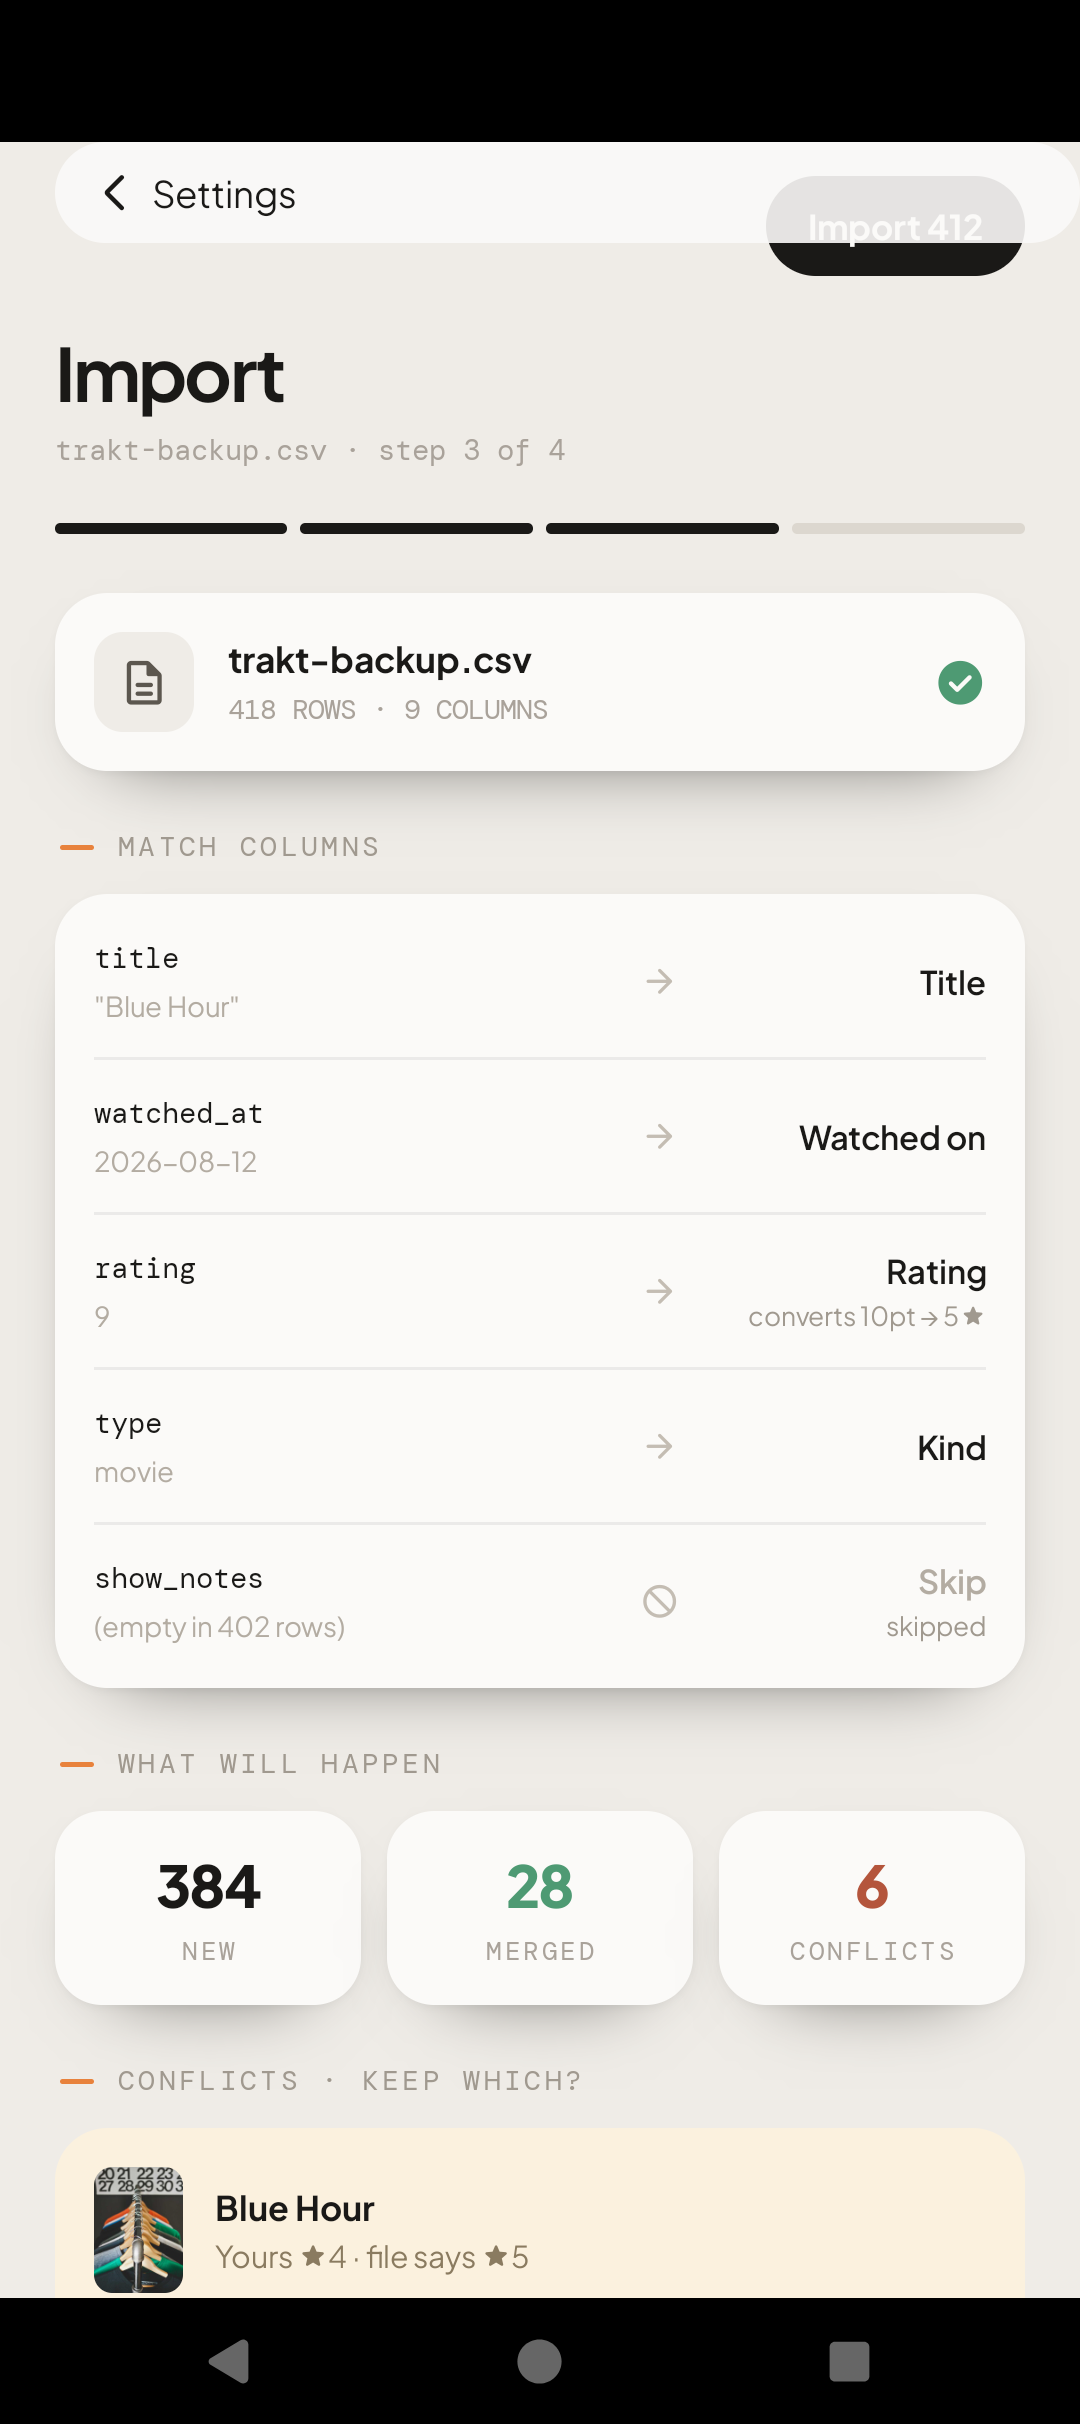
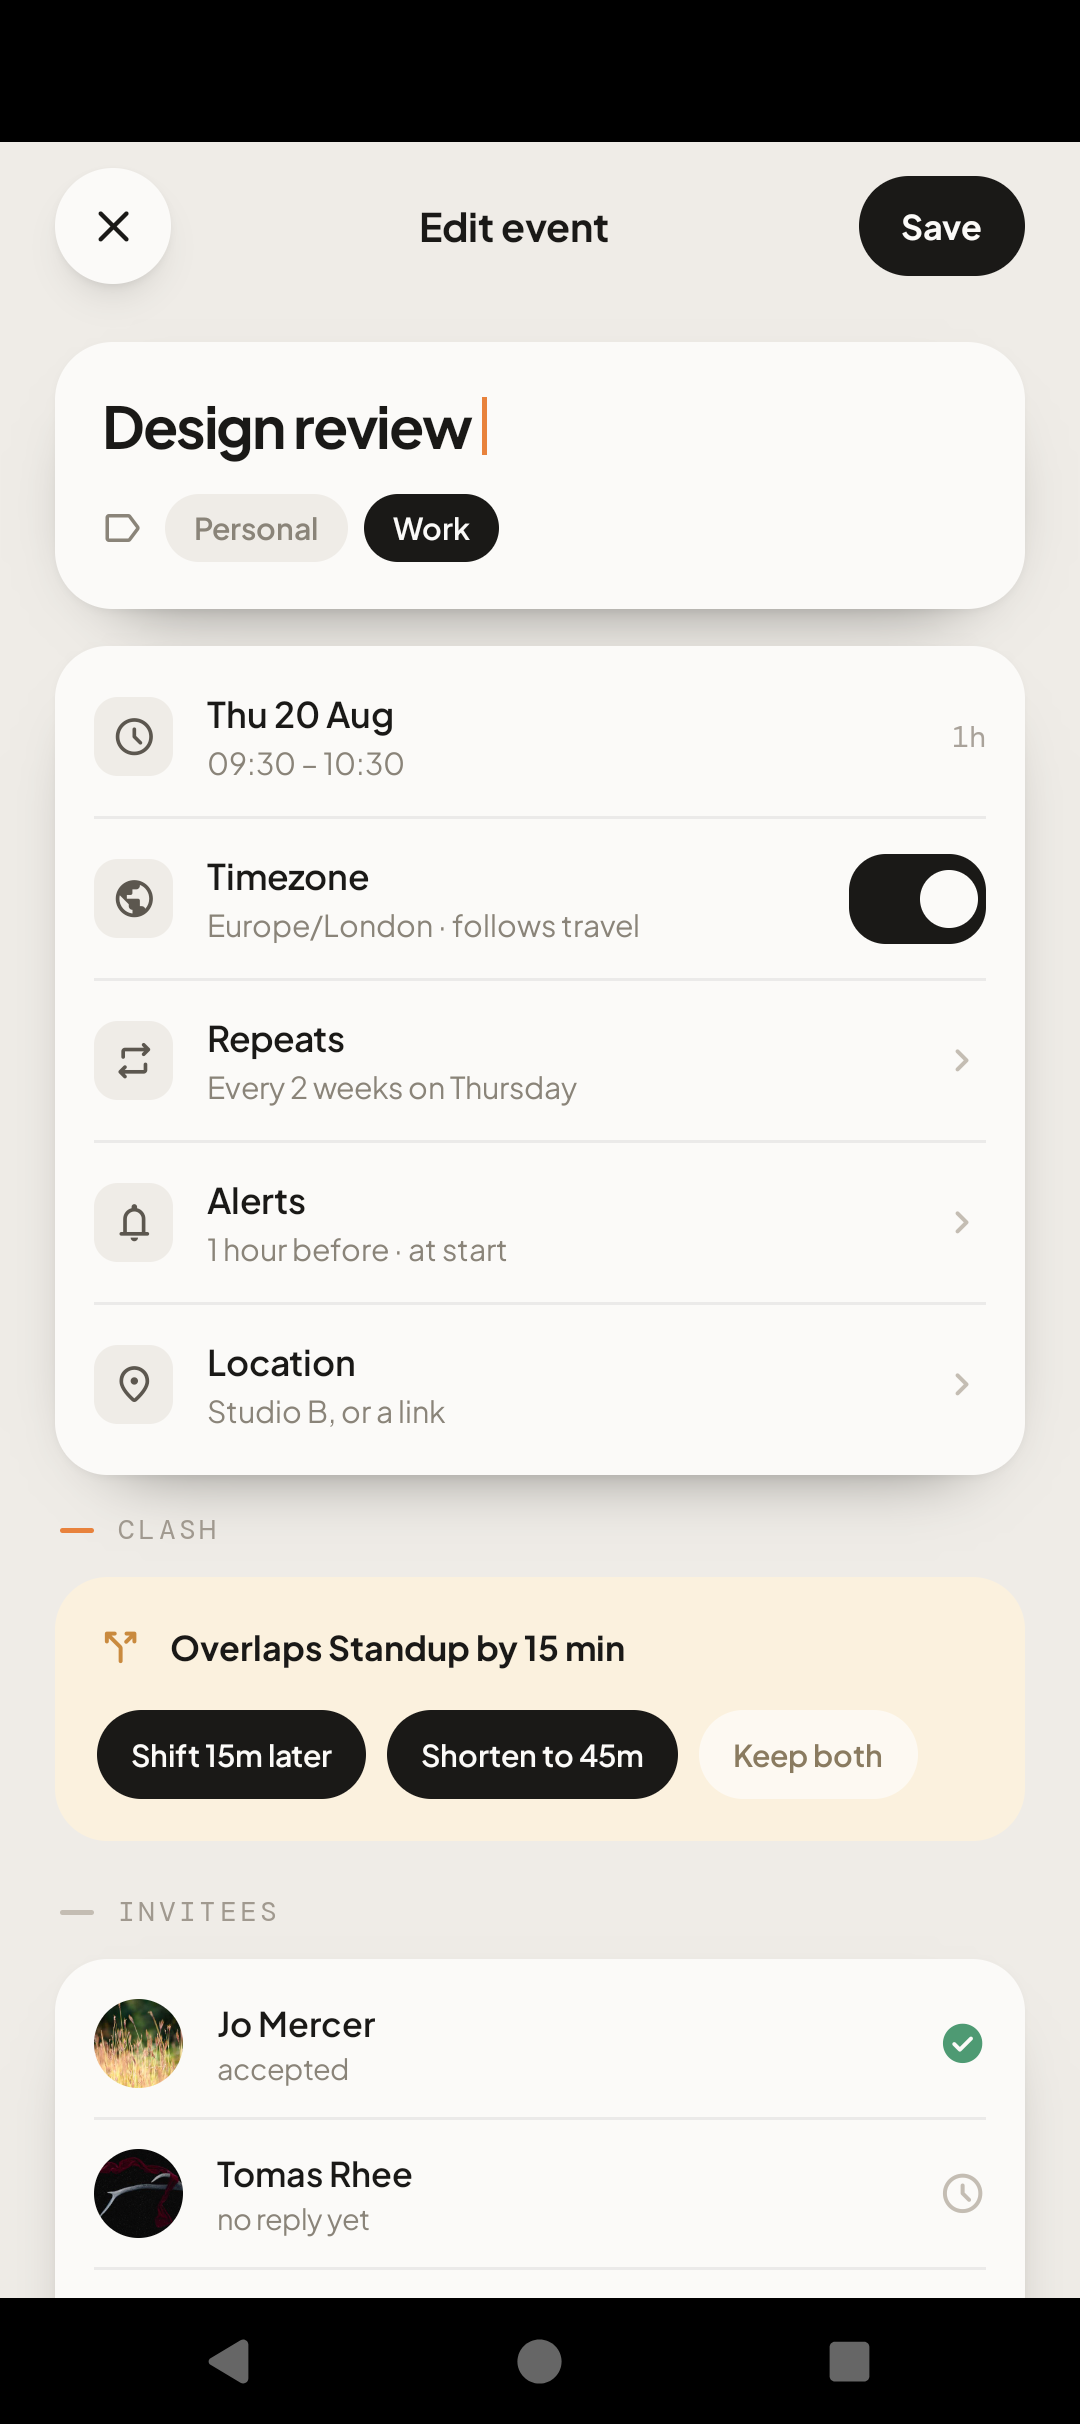
fix(capture): scroll Home to the top before reaching for the bell
A relaunched Home comes back where it was left. If it is scrolled, the bell is
off-screen — so the tap lands on a card, the gallery never opens, and every
subsequent "scroll the gallery" scrolls HOME instead. The run sat there for
minutes with the process alive, the log empty and no frames appearing, which
reads exactly like a hang and is not one.

Scroll to the top first, then tap, then assert "All screens" is on screen
before anyone scrolls anything. 29, 30 and 31 captured immediately afterwards.

diff --git a/bin/capture_all.py b/bin/capture_all.py
@@ -60,11 +60,29 @@ def foreground():
 
 
 def open_gallery():
+    """Cold start, scroll Home to the top, then tap the bell.
+
+    Scrolling first is not defensive padding: a relaunched Home comes back
+    where it was left, and if it is scrolled the bell is off-screen. Every tap
+    then lands on a card and every subsequent "gallery scroll" scrolls HOME —
+    which is what stalled a 34-screen run at the first row, with the process
+    alive and producing nothing.
+    """
     adb("shell", "am", "force-stop", PKG)
     adb("shell", "monkey", "-p", PKG, "-c", "android.intent.category.LAUNCHER", "1")
     time.sleep(14)
+
+    for _ in range(3):
+        adb("shell", "input", "swipe", "540", "700", "540", "1900", "220")
+        time.sleep(0.4)
+
     adb("shell", "input", "tap", str(BELL[0]), str(BELL[1]))
     time.sleep(3)
+
+    # Prove we are in the gallery before anyone starts scrolling it.
+    if not any(t == "All screens" for t, _, _ in dump()):
+        adb("shell", "input", "tap", str(BELL[0]), str(BELL[1]))
+        time.sleep(3)
 
 
 def find_row(label, scrolls=8):
